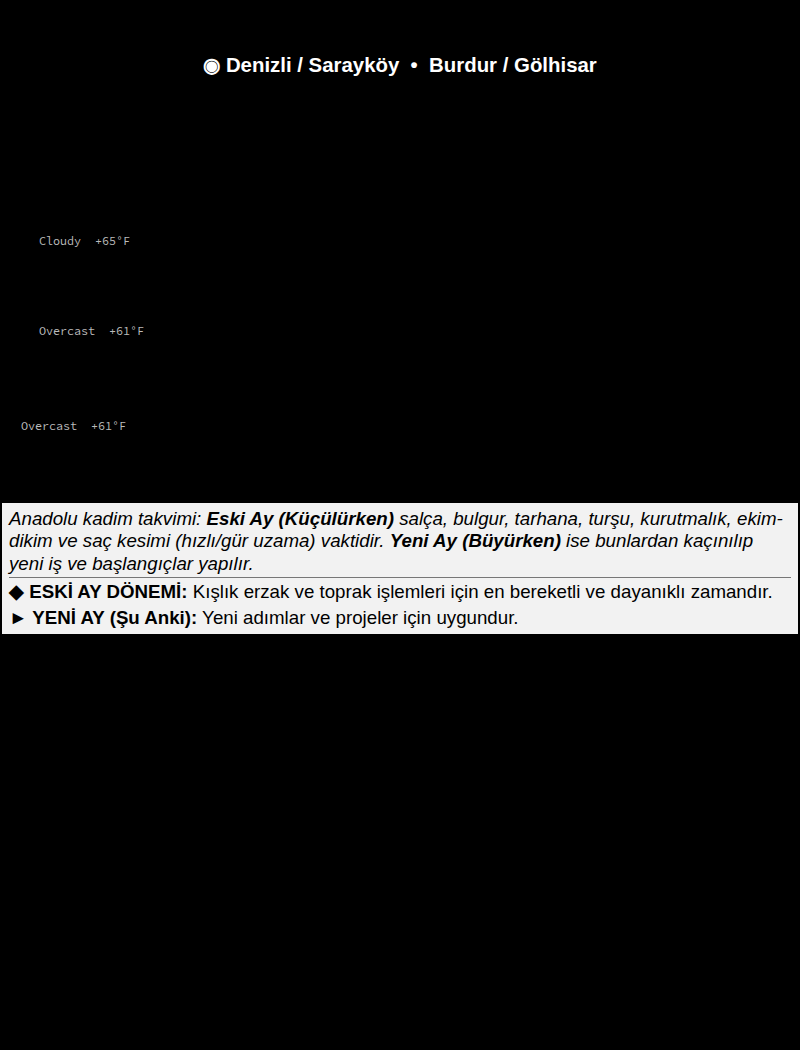
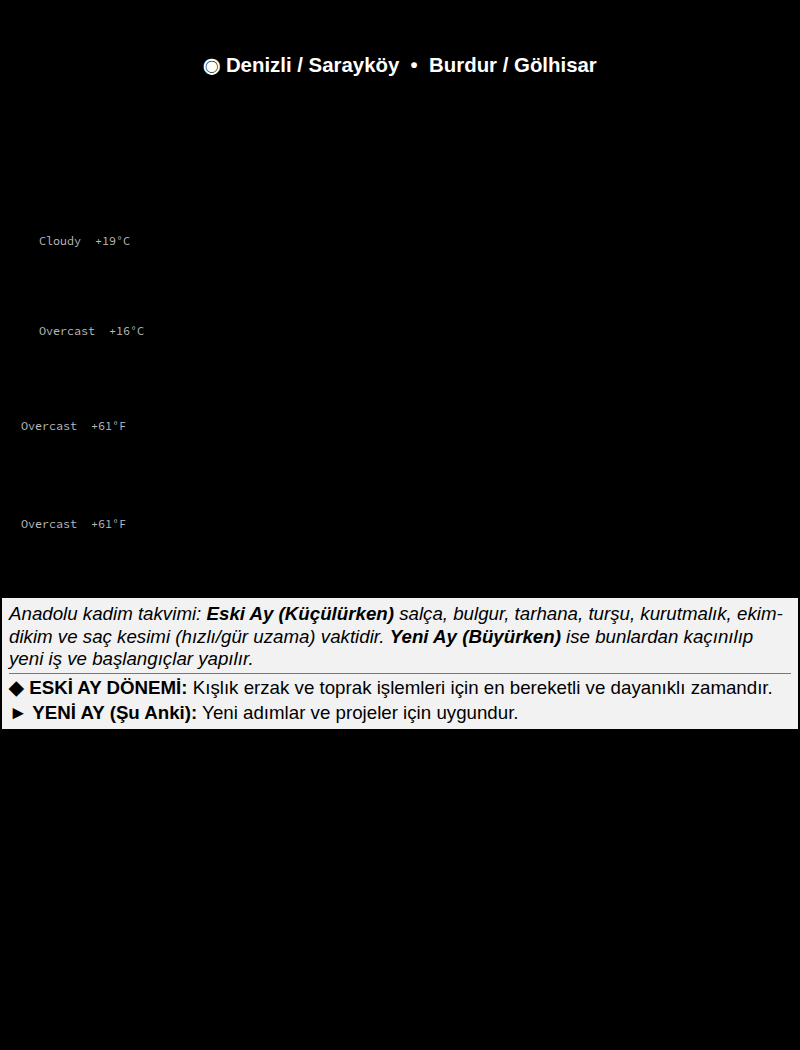
Otomatik panel ve ekran koruyucu guncellemesi (Gunluk)

Changed region(s): [[0.0, 0.4571, 1.0, 0.701], [0.125, 0.2133, 0.1562, 0.2438]]

diff --git a/panel.html b/panel.html
@@ -119,7 +119,7 @@
         <circle cx="12" cy="12" r="9" fill="none" stroke="black" stroke-width="2.5"/>
         <path stroke="black" stroke-width="2.5" d="M12 7v5l3.5 3.5"/>
       </svg>
-      <b>Saat:</b> 11:08 &nbsp;|&nbsp; <b>Tarih:</b> 18 Kasım Çarşamba</div>
+      <b>Saat:</b> 11:12 &nbsp;|&nbsp; <b>Tarih:</b> 18 Kasım Çarşamba</div>
 
     <div class="row">
       <svg class="svg-icon" width="24" height="24" viewBox="0 0 24 24">
@@ -499,8 +499,387 @@
     </style>
 </head>
 <body>
-    <div class="term-container">Cloudy  +65°F
+    <div class="term-container">Cloudy  +19°C
     </div>
+</body>
+</html><br>
+        &bull; <b>G&ouml;lhisar:</b> <!DOCTYPE html>
+<html lang="en">
+<head>
+    <meta charset="UTF-8">
+    <meta name="viewport" content="width=device-width, initial-scale=1.0">
+    <title>wttr.in — Weather Report</title>
+    <link rel="stylesheet" type="text/css"
+          href="https://adobe-fonts.github.io/source-code-pro/source-code-pro.css">
+    <style>
+        html, body {
+            margin: 0;
+            padding: 0;
+            background: #000000;
+            height: 100%;
+            overflow: auto;
+        }
+        .term-container {
+            background: #000000;
+            color: #bbbbbb;
+            font-family: "Source Code Pro",
+                         "DejaVu Sans Mono",
+                         Menlo,
+                         "Lucida Sans Typewriter",
+                         "Lucida Console",
+                         monaco,
+                         "Bitstream Vera Sans Mono",
+                         monospace;
+            font-size: 11.8px;
+            line-height: 1.30 !important;
+            letter-spacing: 0.00em;
+            padding: 6px 10px 0px 10px;
+            white-space: pre;
+            word-break: normal;
+            overflow-wrap: normal;
+            margin: 0;
+            max-width: 100%;
+            width: fit-content;
+            display: block;
+            box-sizing: border-box;
+        }
+        .term-fg1, .bold {
+            color: #eeeeee;
+            font-weight: normal;
+        }
+         
+        .term-container-disabled {
+  background: #171717;
+  border-radius: 5px;
+  color: white;
+  word-break: break-word;
+  overflow-wrap: break-word;
+  font-family: "SFMono-Regular", Monaco, Menlo, Consolas, "Liberation Mono", Courier, monospace;
+  font-size: 12px;
+  line-height: 20px;
+  padding: 14px 18px;
+  white-space: pre-wrap;
+}
+
+.term-container img { max-width: 100%; }
+
+.term-container time { padding-right: 1ex; }
+
+.term a { color: inherit; text-decoration: underline; text-decoration-style: dashed; }
+.term a:hover { color: #2882F9 }
+
+@keyframes blink-animation {
+  to {
+    visibility: hidden;
+  }
+}
+
+.term-fg1 { } /* don't bold beccause it looks weird */
+.term-fg2 { color: #838887; } /* faint (decreased intensity) - same as gray really */
+.term-fg3 { font-style: italic; } /* italic */
+.term-fg4 { text-decoration: underline; } /* underline */
+.term-fg5 { animation: blink-animation 1s steps(3, start) infinite; } /* blink */
+.term-fg9 { text-decoration: line-through; } /* crossed-out */
+
+.term-fg30 { color: #666666; } /* black (but we can't use black, so a diff color) */
+.term-fg31 { color: #ff7070; } /* red */
+.term-fg32 { color: #b0f986; } /* green */
+.term-fg33 { color: #c6c502; } /* yellow */
+.term-fg34 { color: #8db7e0; } /* blue */
+.term-fg35 { color: #f271fb; } /* magenta */
+.term-fg36 { color: #6bf7ff; } /* cyan */
+
+/* high intense colors */
+.term-fgi1 { color: #5ef765; }
+.term-fgi90 { color: #838887; } /* grey */
+.term-fgi91 { color: #ff3333; } /* red */
+.term-fgi92 { color: #00FF00; } /* green */
+.term-fgi93 { color: #fffc67; } /* yellow */
+.term-fgi94 { color: #6871ff; } /* blue */
+.term-fgi95 { color: #ff76ff; } /* magenta */
+.term-fgi96 { color: #60fcff; } /* cyan */
+
+/* background colors */
+.term-bg40 { background: #676767; } /* grey */
+.term-bg41 { background: #ff4343; } /* red */
+.term-bg42 { background: #99ff5f; } /* green */
+
+/* custom foreground/background combos for readability */
+.term-fg31.term-bg40 { color: #F8A39F; }
+
+/* xterm colors */
+.term-fgx16 { color: #000000; }
+.term-fgx17 { color: #00005f; }
+.term-fgx18 { color: #000087; }
+.term-fgx19 { color: #0000af; }
+.term-fgx20 { color: #0000d7; }
+.term-fgx21 { color: #0000ff; }
+.term-fgx22 { color: #005f00; }
+.term-fgx23 { color: #005f5f; }
+.term-fgx24 { color: #005f87; }
+.term-fgx25 { color: #005faf; }
+.term-fgx26 { color: #005fd7; }
+.term-fgx27 { color: #005fff; }
+.term-fgx28 { color: #008700; }
+.term-fgx29 { color: #00875f; }
+.term-fgx30 { color: #008787; }
+.term-fgx31 { color: #0087af; }
+.term-fgx32 { color: #0087d7; }
+.term-fgx33 { color: #0087ff; }
+.term-fgx34 { color: #00af00; }
+.term-fgx35 { color: #00af5f; }
+.term-fgx36 { color: #00af87; }
+.term-fgx37 { color: #00afaf; }
+.term-fgx38 { color: #00afd7; }
+.term-fgx39 { color: #00afff; }
+.term-fgx40 { color: #00d700; }
+.term-fgx41 { color: #00d75f; }
+.term-fgx42 { color: #00d787; }
+.term-fgx43 { color: #00d7af; }
+.term-fgx44 { color: #00d7d7; }
+.term-fgx45 { color: #00d7ff; }
+.term-fgx46 { color: #00ff00; }
+.term-fgx47 { color: #00ff5f; }
+.term-fgx48 { color: #00ff87; }
+.term-fgx49 { color: #00ffaf; }
+.term-fgx50 { color: #00ffd7; }
+.term-fgx51 { color: #00ffff; }
+.term-fgx52 { color: #5f0000; }
+.term-fgx53 { color: #5f005f; }
+.term-fgx54 { color: #5f0087; }
+.term-fgx55 { color: #5f00af; }
+.term-fgx56 { color: #5f00d7; }
+.term-fgx57 { color: #5f00ff; }
+.term-fgx58 { color: #5f5f00; }
+.term-fgx59 { color: #5f5f5f; }
+.term-fgx60 { color: #5f5f87; }
+.term-fgx61 { color: #5f5faf; }
+.term-fgx62 { color: #5f5fd7; }
+.term-fgx63 { color: #5f5fff; }
+.term-fgx64 { color: #5f8700; }
+.term-fgx65 { color: #5f875f; }
+.term-fgx66 { color: #5f8787; }
+.term-fgx67 { color: #5f87af; }
+.term-fgx68 { color: #5f87d7; }
+.term-fgx69 { color: #5f87ff; }
+.term-fgx70 { color: #5faf00; }
+.term-fgx71 { color: #5faf5f; }
+.term-fgx72 { color: #5faf87; }
+.term-fgx73 { color: #5fafaf; }
+.term-fgx74 { color: #5fafd7; }
+.term-fgx75 { color: #5fafff; }
+.term-fgx76 { color: #5fd700; }
+.term-fgx77 { color: #5fd75f; }
+.term-fgx78 { color: #5fd787; }
+.term-fgx79 { color: #5fd7af; }
+.term-fgx80 { color: #5fd7d7; }
+.term-fgx81 { color: #5fd7ff; }
+.term-fgx82 { color: #5fff00; }
+.term-fgx83 { color: #5fff5f; }
+.term-fgx84 { color: #5fff87; }
+.term-fgx85 { color: #5fffaf; }
+.term-fgx86 { color: #5fffd7; }
+.term-fgx87 { color: #5fffff; }
+.term-fgx88 { color: #870000; }
+.term-fgx89 { color: #87005f; }
+.term-fgx90 { color: #870087; }
+.term-fgx91 { color: #8700af; }
+.term-fgx92 { color: #8700d7; }
+.term-fgx93 { color: #8700ff; }
+.term-fgx94 { color: #875f00; }
+.term-fgx95 { color: #875f5f; }
+.term-fgx96 { color: #875f87; }
+.term-fgx97 { color: #875faf; }
+.term-fgx98 { color: #875fd7; }
+.term-fgx99 { color: #875fff; }
+.term-fgx100 { color: #878700; }
+.term-fgx101 { color: #87875f; }
+.term-fgx102 { color: #878787; }
+.term-fgx103 { color: #8787af; }
+.term-fgx104 { color: #8787d7; }
+.term-fgx105 { color: #8787ff; }
+.term-fgx106 { color: #87af00; }
+.term-fgx107 { color: #87af5f; }
+.term-fgx108 { color: #87af87; }
+.term-fgx109 { color: #87afaf; }
+.term-fgx110 { color: #87afd7; }
+.term-fgx111 { color: #87afff; }
+.term-fgx112 { color: #87d700; }
+.term-fgx113 { color: #87d75f; }
+.term-fgx114 { color: #87d787; }
+.term-fgx115 { color: #87d7af; }
+.term-fgx116 { color: #87d7d7; }
+.term-fgx117 { color: #87d7ff; }
+.term-fgx118 { color: #87ff00; }
+.term-fgx119 { color: #87ff5f; }
+.term-fgx120 { color: #87ff87; }
+.term-fgx121 { color: #87ffaf; }
+.term-fgx122 { color: #87ffd7; }
+.term-fgx123 { color: #87ffff; }
+.term-fgx124 { color: #af0000; }
+.term-fgx125 { color: #af005f; }
+.term-fgx126 { color: #af0087; }
+.term-fgx127 { color: #af00af; }
+.term-fgx128 { color: #af00d7; }
+.term-fgx129 { color: #af00ff; }
+.term-fgx130 { color: #af5f00; }
+.term-fgx131 { color: #af5f5f; }
+.term-fgx132 { color: #af5f87; }
+.term-fgx133 { color: #af5faf; }
+.term-fgx134 { color: #af5fd7; }
+.term-fgx135 { color: #af5fff; }
+.term-fgx136 { color: #af8700; }
+.term-fgx137 { color: #af875f; }
+.term-fgx138 { color: #af8787; }
+.term-fgx139 { color: #af87af; }
+.term-fgx140 { color: #af87d7; }
+.term-fgx141 { color: #af87ff; }
+.term-fgx142 { color: #afaf00; }
+.term-fgx143 { color: #afaf5f; }
+.term-fgx144 { color: #afaf87; }
+.term-fgx145 { color: #afafaf; }
+.term-fgx146 { color: #afafd7; }
+.term-fgx147 { color: #afafff; }
+.term-fgx148 { color: #afd700; }
+.term-fgx149 { color: #afd75f; }
+.term-fgx150 { color: #afd787; }
+.term-fgx151 { color: #afd7af; }
+.term-fgx152 { color: #afd7d7; }
+.term-fgx153 { color: #afd7ff; }
+.term-fgx154 { color: #afff00; }
+.term-fgx155 { color: #afff5f; }
+.term-fgx156 { color: #afff87; }
+.term-fgx157 { color: #afffaf; }
+.term-fgx158 { color: #afffd7; }
+.term-fgx159 { color: #afffff; }
+.term-fgx160 { color: #d70000; }
+.term-fgx161 { color: #d7005f; }
+.term-fgx162 { color: #d70087; }
+.term-fgx163 { color: #d700af; }
+.term-fgx164 { color: #d700d7; }
+.term-fgx165 { color: #d700ff; }
+.term-fgx166 { color: #d75f00; }
+.term-fgx167 { color: #d75f5f; }
+.term-fgx168 { color: #d75f87; }
+.term-fgx169 { color: #d75faf; }
+.term-fgx170 { color: #d75fd7; }
+.term-fgx171 { color: #d75fff; }
+.term-fgx172 { color: #d78700; }
+.term-fgx173 { color: #d7875f; }
+.term-fgx174 { color: #d78787; }
+.term-fgx175 { color: #d787af; }
+.term-fgx176 { color: #d787d7; }
+.term-fgx177 { color: #d787ff; }
+.term-fgx178 { color: #d7af00; }
+.term-fgx179 { color: #d7af5f; }
+.term-fgx180 { color: #d7af87; }
+.term-fgx181 { color: #d7afaf; }
+.term-fgx182 { color: #d7afd7; }
+.term-fgx183 { color: #d7afff; }
+.term-fgx184 { color: #d7d700; }
+.term-fgx185 { color: #d7d75f; }
+.term-fgx186 { color: #d7d787; }
+.term-fgx187 { color: #d7d7af; }
+.term-fgx188 { color: #d7d7d7; }
+.term-fgx189 { color: #d7d7ff; }
+.term-fgx190 { color: #d7ff00; }
+.term-fgx191 { color: #d7ff5f; }
+.term-fgx192 { color: #d7ff87; }
+.term-fgx193 { color: #d7ffaf; }
+.term-fgx194 { color: #d7ffd7; }
+.term-fgx195 { color: #d7ffff; }
+.term-fgx196 { color: #ff0000; }
+.term-fgx197 { color: #ff005f; }
+.term-fgx198 { color: #ff0087; }
+.term-fgx199 { color: #ff00af; }
+.term-fgx200 { color: #ff00d7; }
+.term-fgx201 { color: #ff00ff; }
+.term-fgx202 { color: #ff5f00; }
+.term-fgx203 { color: #ff5f5f; }
+.term-fgx204 { color: #ff5f87; }
+.term-fgx205 { color: #ff5faf; }
+.term-fgx206 { color: #ff5fd7; }
+.term-fgx207 { color: #ff5fff; }
+.term-fgx208 { color: #ff8700; }
+.term-fgx209 { color: #ff875f; }
+.term-fgx210 { color: #ff8787; }
+.term-fgx211 { color: #ff87af; }
+.term-fgx212 { color: #ff87d7; }
+.term-fgx213 { color: #ff87ff; }
+.term-fgx214 { color: #ffaf00; }
+.term-fgx215 { color: #ffaf5f; }
+.term-fgx216 { color: #ffaf87; }
+.term-fgx217 { color: #ffafaf; }
+.term-fgx218 { color: #ffafd7; }
+.term-fgx219 { color: #ffafff; }
+.term-fgx220 { color: #ffd700; }
+.term-fgx221 { color: #ffd75f; }
+.term-fgx222 { color: #ffd787; }
+.term-fgx223 { color: #ffd7af; }
+.term-fgx224 { color: #ffd7d7; }
+.term-fgx225 { color: #ffd7ff; }
+.term-fgx226 { color: #ffff00; }
+.term-fgx227 { color: #ffff5f; }
+.term-fgx228 { color: #ffff87; }
+.term-fgx229 { color: #ffffaf; }
+.term-fgx230 { color: #ffffd7; }
+.term-fgx231 { color: #ffffff; }
+.term-fgx232 { color: #080808; }
+.term-fgx233 { color: #121212; }
+.term-fgx234 { color: #1c1c1c; }
+.term-fgx235 { color: #262626; }
+.term-fgx236 { color: #303030; }
+.term-fgx237 { color: #3a3a3a; }
+.term-fgx238 { color: #444444; }
+.term-fgx239 { color: #4e4e4e; }
+.term-fgx240 { color: #585858; }
+.term-fgx241 { color: #626262; }
+.term-fgx242 { color: #6c6c6c; }
+.term-fgx243 { color: #767676; }
+.term-fgx244 { color: #808080; }
+.term-fgx245 { color: #8a8a8a; }
+.term-fgx246 { color: #949494; }
+.term-fgx247 { color: #9e9e9e; }
+.term-fgx248 { color: #a8a8a8; }
+.term-fgx249 { color: #b2b2b2; }
+.term-fgx250 { color: #bcbcbc; }
+.term-fgx251 { color: #c6c6c6; }
+.term-fgx252 { color: #d0d0d0; }
+.term-fgx253 { color: #dadada; }
+.term-fgx254 { color: #e4e4e4; }
+.term-fgx255 { color: #eeeeee; }
+
+
+         
+        .social-buttons {
+            display: flex;
+            flex-wrap: nowrap;
+            gap: 12px;
+            align-items: center;
+            margin-top: 0px;
+            padding: 0 10px;
+            overflow-x: auto;            
+            -webkit-overflow-scrolling: touch;
+            scrollbar-width: thin;       
+        }
+
+        .social-buttons::-webkit-scrollbar {
+            height: 6px;
+        }
+
+        .github-button,
+        .twitter-follow-button {
+            white-space: nowrap;         
+            flex-shrink: 0;              
+        }
+    </style>
+</head>
+<body>
+    <div class="term-container">Overcast  +16°C
+    </div>
+</body>
+</html>
+      </div>
 </body>
 </html><br>
         &bull; <b>G&ouml;lhisar:</b> <!DOCTYPE html>
